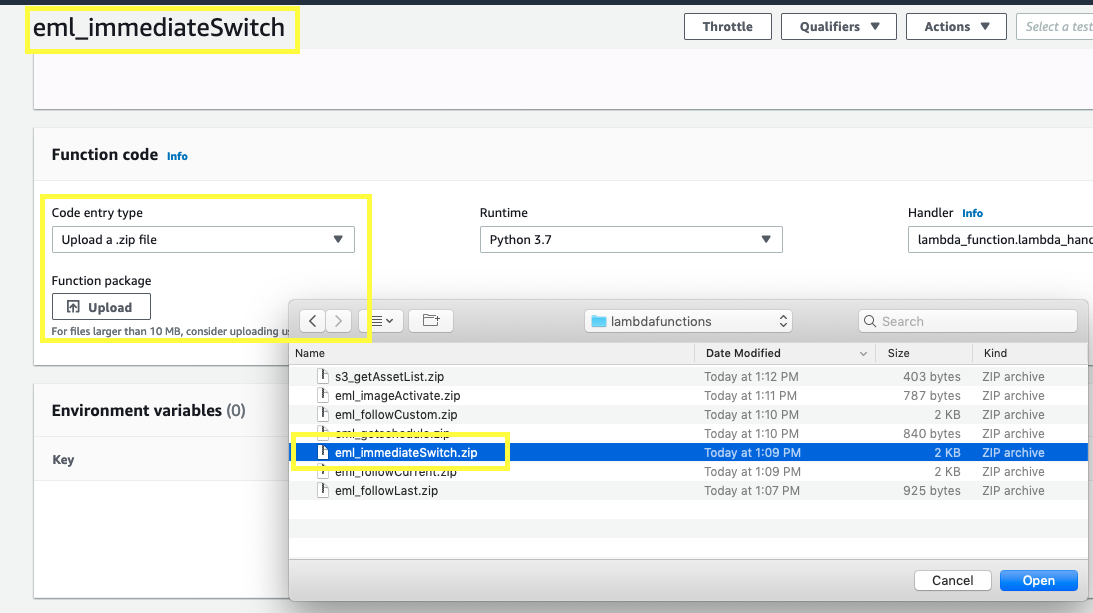
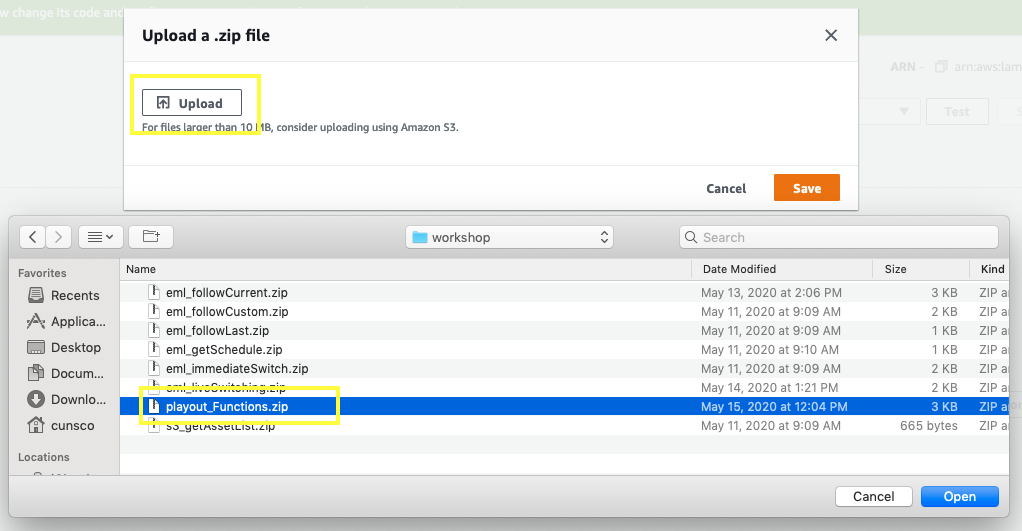
readme updates

Changed region(s): [[0.0, 0.3013, 1.0, 1.0], [0.0, 0.0, 1.0, 0.0904], [0.0303, 0.1205, 1.0, 0.2712]]

diff --git a/README-independent_functions.md b/README-independent_functions.md
@@ -1,3 +1,5 @@
+**This version of the README is depracated, please use README.md for instructions on how to deploy**
+
 # Channel Playout Management UI
 This repo contains all of the tools and instructions necessary for you to deploy and build an HTML dashboard, capable of interfacing with, and creating a playout schedule for AWS Elemental MediaLive. This is what the finished product will look like!
 
@@ -223,7 +225,7 @@ Policy json code block:
 [under construction... not needed for this deployment anyway]
 
 ### AWS Lambda Functions Configuration
-We will create a Lambda function in this section. Get the function code from the **/lambdafunctions/workshop** directory in this repository, it is called **playout_Functions.zip**
+We will create 6 Lambda functions in this section. Get the function code from the /lambdafunctions directory in this repository
 
 1. Login to the AWS Management Console
 
@@ -233,40 +235,41 @@ We will create a Lambda function in this section. Get the function code from the
 
 4. Select **Author from scratch**
 
-5. Give the Function a Name, please call it : `playout_Functions`
+5. Give the Function a Name, please stick to this format:
 
-6. Use Code Runtime : `Python 3.7`
+| Function Name       | Runtime         | Zip file                |
+| ------------------- | --------------- | ----------------------- |
+| eml_immediateSwitch | python 3.7      | eml_immediateSwitch.zip
+| eml_followCurrent   | python 3.7      | eml_followCurrent.zip
+| eml_followCustom    | python 3.7      | eml_followCustom.zip
+| eml_followLast      | python 3.7      | eml_followLast.zip
+| eml_getSchedule     | python 3.7      | eml_getSchedule.zip
+| s3_getAssetList     | python 3.7      | s3_getAssetList.zip
 
-7. Under **Permissions**, select 'Use an existing role', and then choose the role created earlier : **AWSLambdaAccessToS3AndEML**
+6. Under **Permissions**, select 'Use an existing role', and then choose the role created earlier : **AWSLambdaAccessToS3AndEML**
 
 ![](readme_images/lam1.png)
 
-8. Select **Create Function**
+7. Select **Create Function**
 
-9. Under the **Function Code** section, change the 'Code entry type' to **Upload a zip file**. Select the Upload button and browse to the ZIP file for this function.
+8. Under the **Function Code** section, change the 'Code entry type' to **Upload a zip file**. Select the Upload button and browse to the ZIP file for this function.
 
 ![](readme_images/lam2.png)
 
-10. After the code has imported, scroll down to the **Basic Settings** section, press the 'Edit' button and change the Timeout value to 2 minutes.
+9. After the code has imported, scroll down to the **Basic Settings** section, press the 'Edit' button and change the Timeout value to 2 minutes.
 
 ![](readme_images/lam3.png)
 
-11. Select the **Save** button and move on to the next section.
+10. Select the **Save** button and return to the Functions dashboard.
+
+11. Repeat steps 3 to 10 for all of the functions
 
 ### Amazon API Gateway Configuration
-1. Navigate to the /apigatewayjson directory of this repo.
-
-1. Open the 'playout-eng-swagger-apigateway-playout_function.json' file in your favorite text editor (Notepad++, TextWrangler, etc...). Do a Find and Replace on **all** occurrences of : '112233445566' Replace this number with your AWS account number that is hosting the AWS Lambda Functions (without hyphens '-'). There should be 2 occurrences.
+1. Open the 'playoutAPI-eng-swagger-apigateway-ext.json' file in the apigatewayjson directory of this repo. Do a Find and Replace on all occurrences of : '112233445566' Replace this number with your AWS account number that is hosting the AWS Lambda Functions. There should be 6 occurrences.
 
 *You can find your account number in the AWS console, under the account drop-down menu*
 
 ![](readme_images/api1.png)
-
-In the below screenshot I'm doing a Find & Replace with my account number: 123412341234. Do the same for yours
-
-![](readme_images/api1b.png)
-
-**No need to save the file, just do a `Ctrl+A` or copy all command to copy the contents of the json file to your clipboard**
 
 2. Login to the AWS Management Console
 
@@ -278,7 +281,7 @@ In the below screenshot I'm doing a Find & Replace with my account number: 12341
 
 ![](readme_images/api2.png)
 
-6. Under Choose the protocol, select **REST**, and under Create new API, select **Import from Swagger or Open API 3**. Then paste the contents from the edited 'playout-eng-swagger-apigateway-playout_function.json' file
+6. Under Choose the protocol, select **REST**, and under Create new API, select **Import from Swagger or Open API 3**. Then paste the contents from the edited 'playoutAPI-eng-swagger-apigateway-ext.json' file
 
 7. Select **Import**
 
